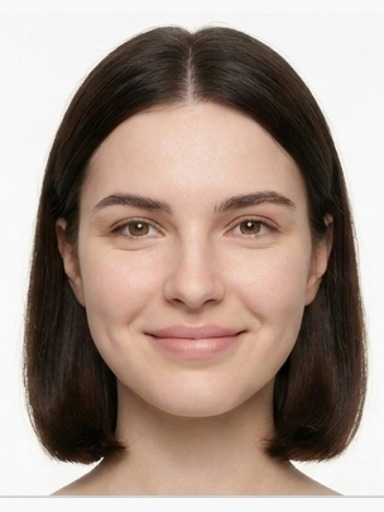
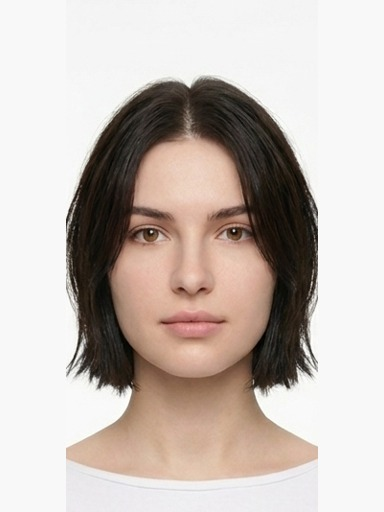
234

diff --git a/src/app/models/page.js b/src/app/models/page.js
@@ -35,8 +35,8 @@ const CATEGORIES = [
         code: 'A', name: '유럽계 · 브라운 중단발 · 차분/미니멀',
         size: '키 168cm · 슬림 (Max 170 기준 살짝 작게)',
         identity: '유럽계 성인 여성 20대 후반 · 갸름한 타원형 · 짙은 초콜릿 브라운 중단발 웨이브 · 차분·미니멀 · 자연 피부질감',
-        ref: `${FTP}/B_A_rep.jpg?v=e2`,
-        sheets: { face: `${FTP}/B_A_face.png?v=hairB`, expr: `${FTP}/B_A_expr.png?v=v1`, body: `${FTP}/B_A_body.png?v=v1`, pose: `${FTP}/B_A_pose.png?v=v2` },
+        ref: `${FTP}/B_A_rep.jpg?v=hair`,
+        sheets: { face: `${FTP}/B_A_face.png?v=hairB2`, expr: `${FTP}/B_A_expr.png?v=hair`, body: `${FTP}/B_A_body.png?v=v1`, pose: `${FTP}/B_A_pose.png?v=v2` },
         soulId: null, status: '얼굴 시트 ✅ · 표정/바디/포즈 대기',
       },
       {
@@ -52,16 +52,16 @@ const CATEGORIES = [
         code: 'C', name: '유럽계 · 애쉬 숏보브 · 쿨/미니멀',
         size: '키 169cm · 슬림 (Max 170 기준 살짝 작게)',
         identity: '유럽계 성인 여성 20대 중후반 · 슬림 타원형 · 애쉬 브라운 숏 보브(턱선) · 쿨·미니멀·앤드로지너스 · 자연 피부질감',
-        ref: `${FTP}/B_C_rep.jpg?v=40`,
-        sheets: { face: `${FTP}/B_C_face.png?v=hairC`, expr: `${FTP}/B_C_expr.png?v=v1`, body: `${FTP}/B_C_body.png?v=v1`, pose: `${FTP}/B_C_pose.png?v=v3` },
+        ref: `${FTP}/B_C_rep.jpg?v=hair`,
+        sheets: { face: `${FTP}/B_C_face.png?v=hairC2`, expr: `${FTP}/B_C_expr.png?v=hair`, body: `${FTP}/B_C_body.png?v=v1`, pose: `${FTP}/B_C_pose.png?v=v3` },
         soulId: null, status: '얼굴 시트 ✅ · 표정/바디/포즈 대기',
       },
       {
         code: 'D', name: '동아시아계 · 롱 블랙 스트레이트 · 쿨/에디토리얼',
         size: '키 173cm · 슬림 장신 (Max 170 기준 살짝 크게)',
         identity: '동아시아계 성인 여성 20대 초중반 · 슬림 타원형 · 롱 블랙 스트레이트(중앙 가르마) · 쿨·에디토리얼 · 자연 피부질감',
-        ref: `${FTP}/B_D_rep.jpg?v=40`,
-        sheets: { face: `${FTP}/B_D_face.png?v=hairD3`, expr: `${FTP}/B_D_expr.png?v=v1`, body: `${FTP}/B_D_body.png?v=v1`, pose: `${FTP}/B_D_pose.png?v=v3` },
+        ref: `${FTP}/B_D_rep.jpg?v=hair`,
+        sheets: { face: `${FTP}/B_D_face.png?v=hairD3`, expr: `${FTP}/B_D_expr.png?v=hair`, body: `${FTP}/B_D_body.png?v=v1`, pose: `${FTP}/B_D_pose.png?v=v3` },
         soulId: null, status: '얼굴 시트 ✅ · 표정/바디/포즈 대기',
       },
     ],
@@ -73,8 +73,8 @@ const CATEGORIES = [
         code: 'A', name: '유럽계 · 짧은 다크브라운 · 클린컷/캐주얼',
         size: '키 180cm · 슬림 애슬레틱 (Max 170 이상)',
         identity: '유럽계 성인 남성 20대 후반~30대 · 클린컷 · 짧은 다크브라운 · 정돈된 캐주얼 · 자연 피부질감',
-        ref: `${FTP}/M_A_rep.jpg?v=40`,
-        sheets: { face: `${FTP}/M_A_face.png?v=hairMA`, expr: `${FTP}/M_A_expr.png?v=v1`, body: `${FTP}/M_A_body.png?v=v1`, pose: `${FTP}/M_A_pose.png?v=v2` },
+        ref: `${FTP}/M_A_rep.jpg?v=hair`,
+        sheets: { face: `${FTP}/M_A_face.png?v=hairMA2`, expr: `${FTP}/M_A_expr.png?v=hair`, body: `${FTP}/M_A_body.png?v=v1`, pose: `${FTP}/M_A_pose.png?v=v2` },
         soulId: null, status: '4종 완성 ✅ (착석=네이비 Max)',
       },
     ],
